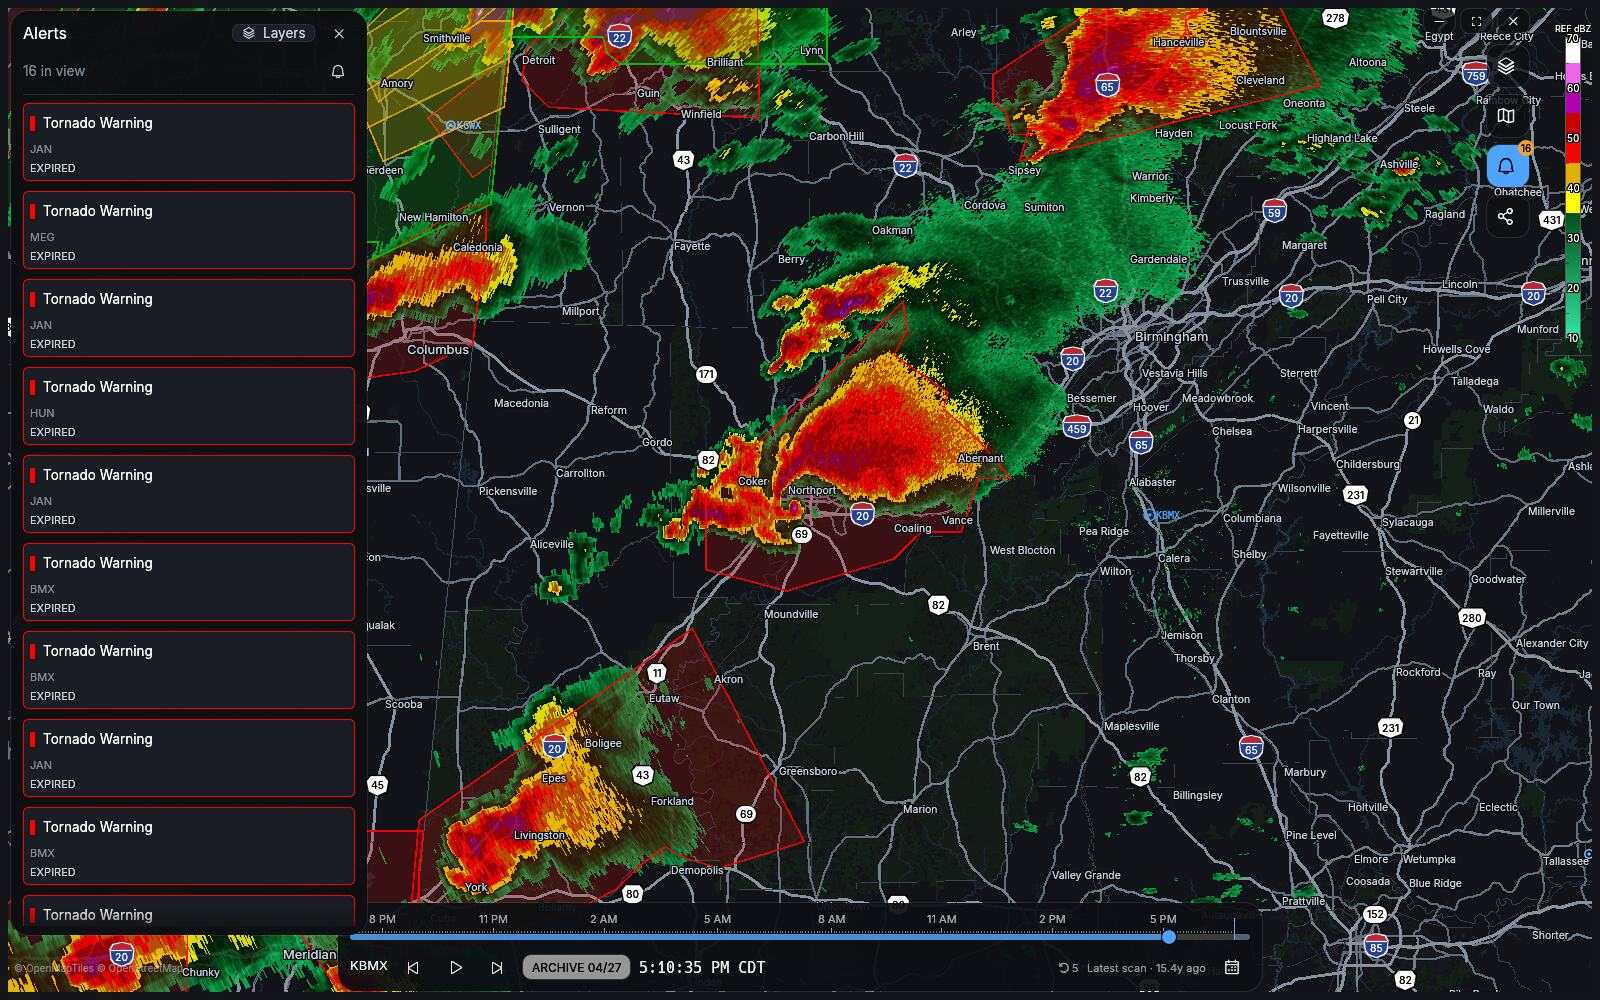
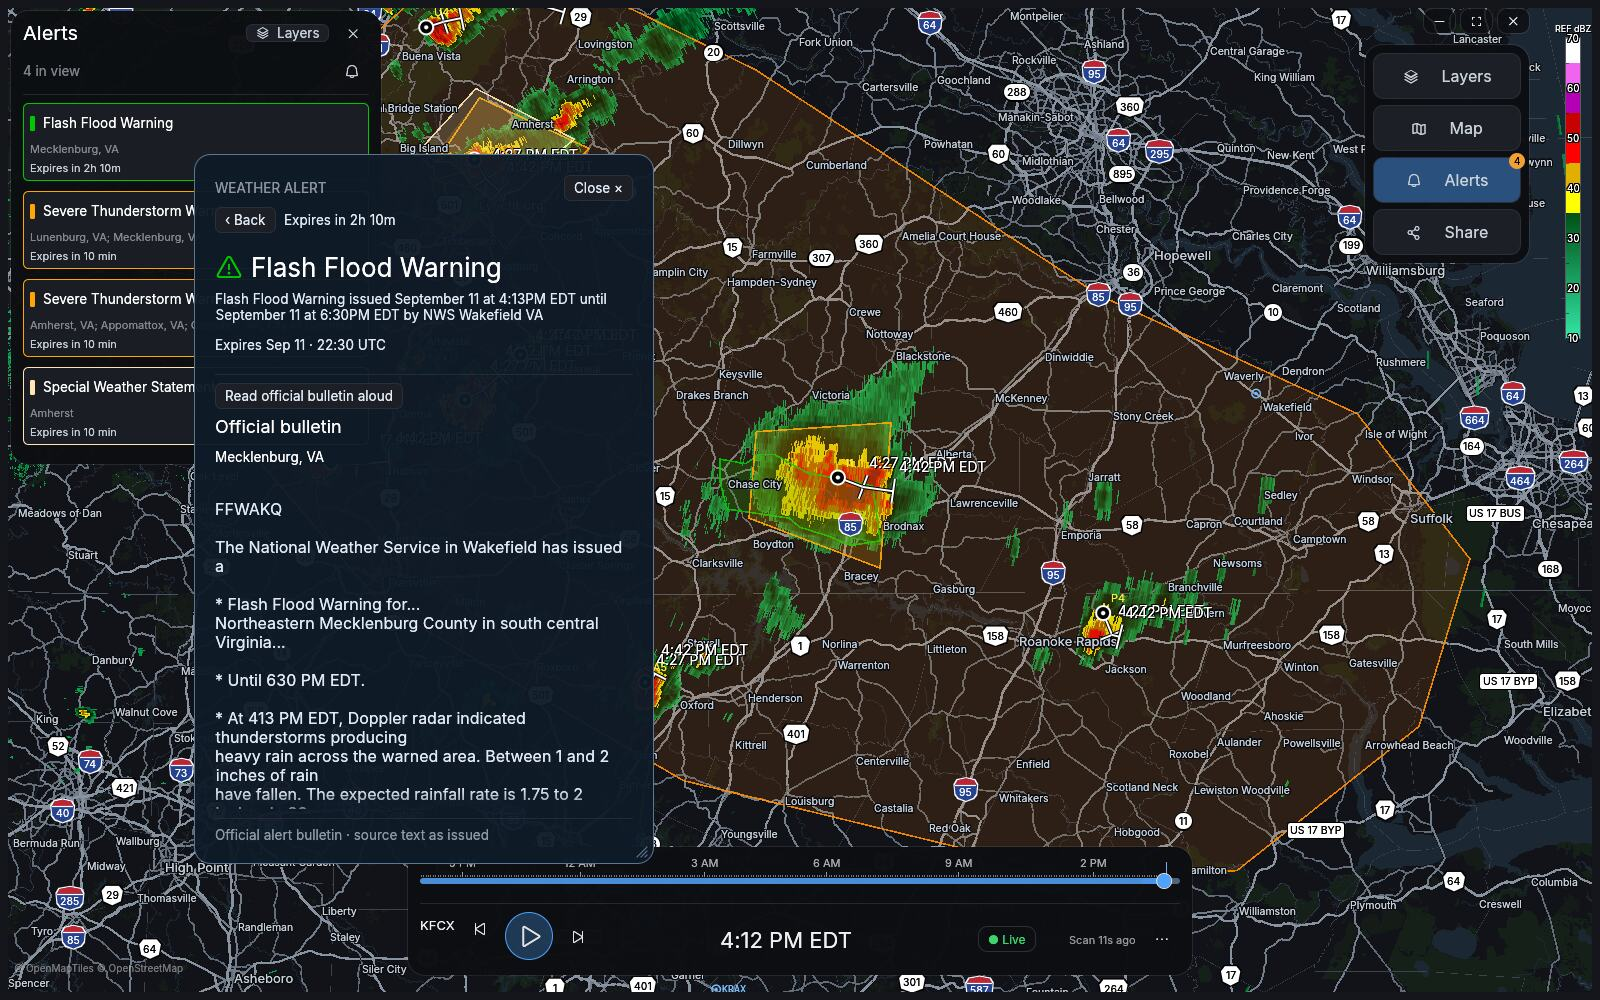
docs(shots): feature warning and emergency interface

diff --git a/docs/technical-reference.md b/docs/technical-reference.md
@@ -186,8 +186,12 @@ force at that moment.
 
 | Storm attributes | Active alerts |
 |---|---|
-| ![The storm attributes table listing tracked cells](shots/stormtable.jpg) | ![The alerts panel listing tornado warnings](shots/alerts.jpg) |
-| <sub>KTBW — live</sub> | <sub>KBMX — 27 Apr 2011 outbreak</sub> |
+| ![The storm attributes table listing tracked cells](shots/stormtable.jpg) | ![The glass warning reader with the official bulletin immediately visible](shots/alerts.jpg) |
+| <sub>KTBW — live</sub> | <sub>Actual NWS warning captured in the app</sub> |
+
+![An emergency-severity tornado warning over archived Moore radar](shots/emergency.jpg)
+
+<sub>**Emergency-severity warning presentation.** KTLX — 20 May 2013 archive replay.</sub>
 
 ### Looking ahead
 

diff --git a/scripts/shots/README.md b/scripts/shots/README.md
@@ -42,7 +42,8 @@ run time and never leaves the scratch profile; the committed template has an emp
 | `velocity` | El Reno — May 31 2013 | The velocity couplet, unmistakable |
 | `alltilts` | Moore | A 60+ dBZ core in all four panes |
 | `xsection` | Moore | The vault, in a panel that is not empty |
-| `alerts` | Tuscaloosa | The real archived tornado-warning stack |
+| `alerts` | Current NWS warning (`ALERT_GOTO`) | The scrollable official warning bulletin |
+| `emergency` | Moore | The emergency-severity tornado-warning presentation |
 | `products` | Joplin — May 22 2011 | The picker over a storm, not over black |
 | `layers` | Mayfield — Dec 11 2021 | Whole rows, opaque card |
 | `forecast` | Moore | A populated point forecast |

diff --git a/README.md b/README.md
@@ -34,6 +34,10 @@ Recorded on a Samsung Galaxy S24 Ultra. [Watch both phone demos](https://hookech
 | --- | --- |
 | ![Floating layers and labeled map controls](docs/shots/layers.jpg) | ![Storm list with selected cell attributes](docs/shots/stormtable.jpg) |
 
+| Warning bulletin | Tornado emergency |
+| --- | --- |
+| ![Official warning bulletin immediately visible in the glass warning reader](docs/shots/alerts.jpg) | ![Emergency-severity tornado warning highlighted over archived radar](docs/shots/emergency.jpg) |
+
 ![Selected storm cell with all attributes visible](docs/shots/cellconsole.jpg)
 
 [See the complete screenshot gallery](docs/technical-reference.md#screenshots).
